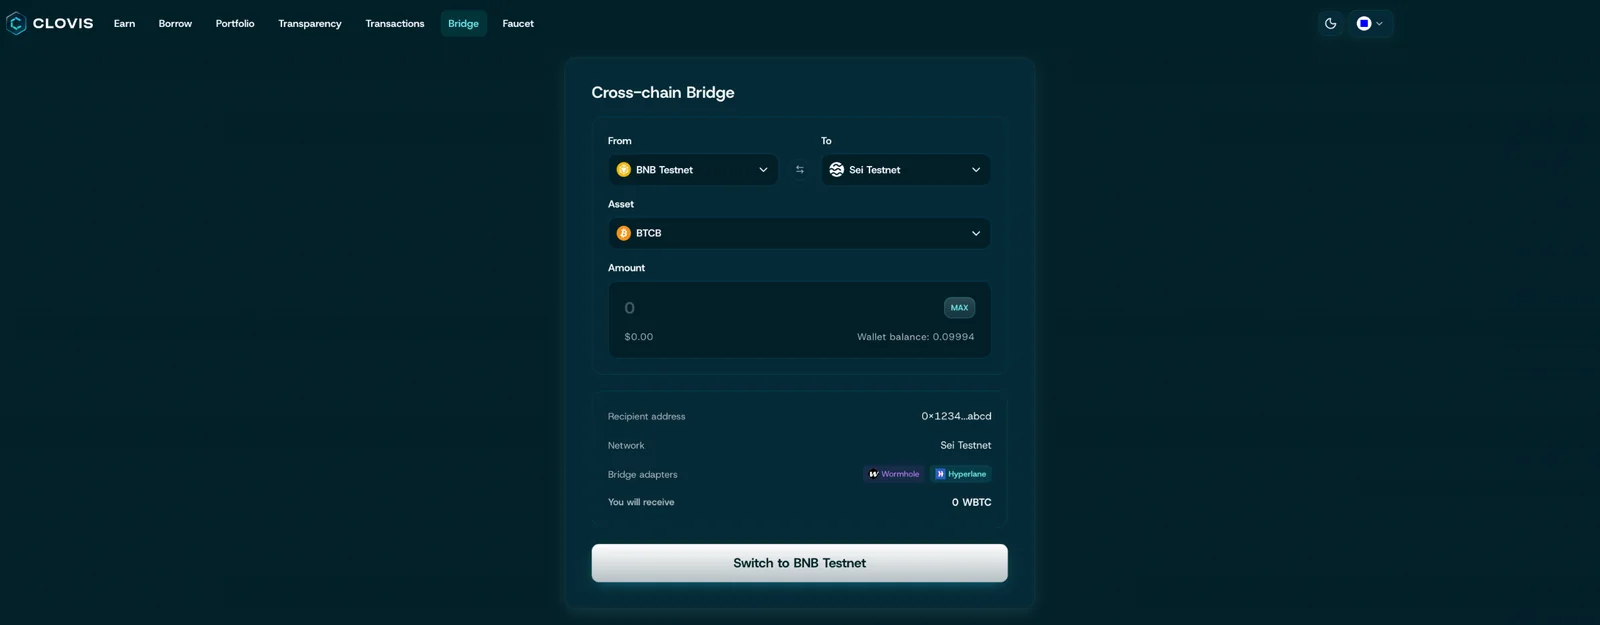
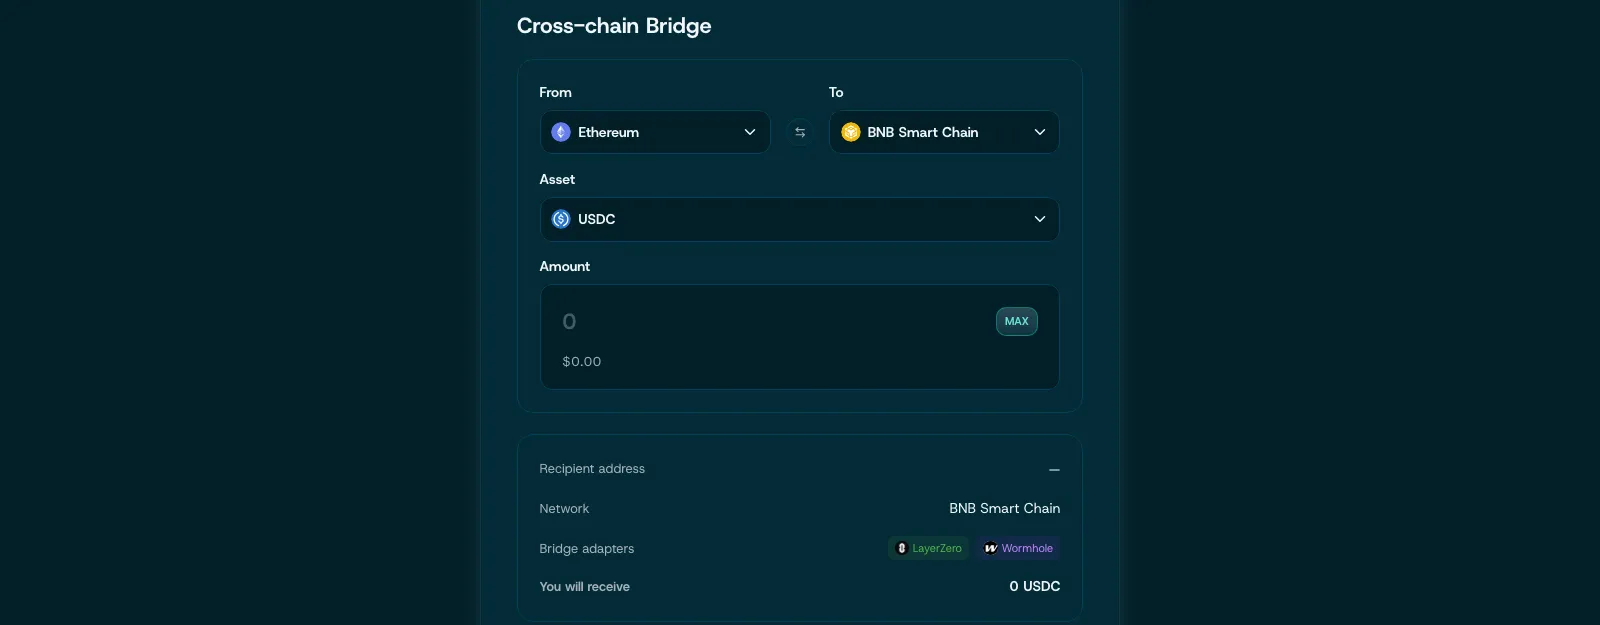
feat: update Clovis to mainnet
Clovis is live at app.clovis.network with a Base settlement chain.
Copy is kept general so it does not date: no vault list, strategy
names, chain count or launch status beyond mainnet. Fresh mainnet
screenshots replace the testnet captures.

diff --git a/src/lib/case-studies/clovis.ts b/src/lib/case-studies/clovis.ts
@@ -6,17 +6,17 @@ export const clovis: CaseStudy = {
   title: "Deposit once, earn everywhere with Clovis",
   gradientWord: "Clovis",
   intro:
-    "Clovis is a cross-chain DeFi yield hub built by Yei Finance, on the premise of \"deposit once, earn everywhere\": a single deposit is meant to draw yield from more than one chain at a time instead of sitting idle on the one it happens to live on. I helped build the platform from the ground up — the curated earn vaults, the borrow-against-your-position markets, the transparency layer that shows where the money actually goes, and the hub-and-spoke architecture underneath. It's now live on testnet!",
+    "Clovis is a cross-chain DeFi yield hub built on the premise of \"deposit once, earn everywhere\": a single deposit is meant to draw yield from more than one chain at a time instead of sitting idle on the one it happens to live on. I helped build the platform from the ground up — the curated earn vaults, the borrow-against-your-position markets, the transparency layer that shows where the money actually goes, and the hub-and-spoke architecture underneath. It was proven on testnet first and is now live on mainnet.",
   role: "Full-stack Engineer",
   stack: ["React", "TypeScript", "Solidity", "Morpho", "Euler"],
   stats: [
     { value: "Earn + borrow", label: "one loop — collateral keeps earning" },
-    { value: "Morpho + Euler", label: "single- and multi-collateral markets" },
-    { value: "Base Sepolia", label: "hub chain the vaults settle to" },
+    { value: "Morpho Blue + Euler", label: "single- and multi-collateral markets" },
+    { value: "Base", label: "settlement chain for the vaults" },
     { value: "Hub + spoke", label: "cross-chain accounting architecture" },
   ],
   links: {
-    live: "https://testnet.clovis.network",
+    live: "https://app.clovis.network",
   },
   beats: [
     {
@@ -24,7 +24,7 @@ export const clovis: CaseStudy = {
       heading: "One deposit, yield from more than one chain",
       body: [
         "The Earn page is where the \"deposit once, earn everywhere\" idea becomes a screen. It lists a curated vault for each supported asset — every vault run by a curator — with the chains it reaches, its TVL and its deposit APY sitting on the same row as the deposit action. Above the table, the page rolls up total deposited and total yield generated across the whole platform, and once a wallet is connected the same header also shows that user's own deposit and total earned.",
-        "The point of the design is that a depositor never has to think in chains. They pick an asset, deposit once, and the vault handles spreading that capital to where it earns. Inside a position the balance splits two ways: a flexible portion that stays withdrawable at the base rate, and locked portions that trade liquidity for a boosted yield over a fixed term, with auto-renewal, relocking and early unlock all surfaced in the portfolio view.",
+        "The point of the design is that a depositor never has to think in chains. They pick an asset, deposit once, and the vault handles spreading that capital across lending protocols on the chains where it earns best, with the returns aggregated back to depositors. Inside a position the balance splits two ways: a flexible portion that stays withdrawable at the base rate, and locked portions that trade liquidity for a boosted yield over a fixed term, with auto-renewal, relocking and early unlock all surfaced in the portfolio view.",
       ],
       media: [
         {
@@ -40,7 +40,7 @@ export const clovis: CaseStudy = {
       heading: "Borrow against your earn position without giving up the yield",
       body: [
         "The borrow flow answers the question every yield product eventually runs into: how do I get liquidity out of a position without unwinding it and losing the yield it's earning? Clovis lets a user borrow against an earn position while it keeps compounding — the vault receipt token itself is the collateral, so the deposit stays productive instead of being pulled out to free up cash.",
-        "The markets come in two shapes. Single-collateral markets, built on Morpho, pair one collateral asset with one borrow asset. Multi-collateral markets, built on Euler, let a mix of vault tokens back a single debt. Every row carries its available liquidity, borrow rate, LLTV and utilization, and the borrow panel keeps the health factor beside the amount along with a destination chain selector — plus the reminder that collateral in one market only ever backs that market's debt.",
+        "The markets come in two shapes. Single-collateral markets, built on Morpho Blue, pair one collateral asset with one borrow asset. Multi-collateral markets, built on Euler, let a mix of vault tokens back a single debt. Every row carries its available liquidity, borrow rate, LLTV and utilization, and the borrow panel keeps the health factor beside the amount along with a destination chain selector — plus the reminder that collateral in one market only ever backs that market's debt.",
       ],
       media: [
         {
@@ -55,14 +55,14 @@ export const clovis: CaseStudy = {
       eyebrow: "Transparency",
       heading: "Show the allocation, don't just claim the yield",
       body: [
-        "A yield product asks for a lot of trust, so Clovis puts its mechanics on a page of its own. Transparency gives every vault a tab: who curates it, which chain it settles on, its TVL and deposit APY, and a month of history charted with the locked and flexible portions drawn as separate series. A short explainer states plainly what the single headline APY is actually made of — the underlying lending rate, plus a share of protocol rewards.",
-        "Below that, the allocation is shown rather than described. A donut breaks the vault down by chain and notes that those weights rebalance automatically as rates move, and a collateral exposure table lists each position the deposited asset is lent against: the protocol behind it, Morpho or Euler, the total collateral, its LTV and liquidation threshold, and how utilized it is. The vault's contract address sits on the same page for anyone who wants to verify the claim on-chain.",
+        "A yield product asks for a lot of trust, so Clovis puts its mechanics on a page of its own. Transparency gives every vault a tab: who curates it, which chain it settles on, its TVL and deposit APY, and its recent TVL and APY history charted with the locked and flexible portions drawn as separate series. A short explainer states plainly what the single headline APY is actually made of — the underlying lending rate, plus a share of protocol rewards.",
+        "Below that, the allocation is shown rather than described. A donut breaks the vault down by chain and notes that those weights rebalance automatically as rates move, and a collateral exposure table lists each position the deposited asset is lent against: the protocol behind it, Morpho or Euler, the total collateral, its LTV and liquidation threshold, and how utilized it is. An active-strategies list names each lending protocol the vault is split across, with its chain and share of the allocation, and the vault's contract address sits on the same page for anyone who wants to verify the claim on-chain.",
       ],
       media: [
         {
           type: "image",
           src: "/images/clovis/transparency.webp",
-          alt: "Clovis Transparency page for a single vault showing the curator, settlement chain, TVL and deposit APY header alongside a one-month TVL chart plotting locked and flexible balances as separate series",
+          alt: "Clovis Transparency page for a single vault showing the curator, settlement chain, TVL and deposit APY header alongside a recent TVL chart plotting locked and flexible balances as separate series",
           aspect: "auto",
         },
         {
@@ -77,29 +77,29 @@ export const clovis: CaseStudy = {
       eyebrow: "Architecture",
       heading: "A hub-and-spoke design, built from the ground up",
       body: [
-        "Underneath the product is the part that makes cross-chain yield actually work: a hub-and-spoke architecture. A hub — deployed here on Base Sepolia — owns the accounting and keeps one consistent view of who's owed what, while spoke deployments on each supported chain handle custody and lending locally. That separation is what lets a single deposit be tracked coherently while its capital sits across a growing set of networks, and lets the vault rebalance between them automatically as yields move.",
-        "Assets travel over pluggable bridge adapters — Wormhole and Hyperlane — which the in-app bridge exposes directly, so moving an asset between supported chains is a first-class action rather than a detour. We built this from the ground up: the vault and market contracts, the frontend that reads and drives them, and the hub-to-spoke coordination that keeps balances in sync. Running on testnet first is the deliberate part — the mechanism gets proven before real capital is trusted to it.",
+        "Underneath the product is the part that makes cross-chain yield actually work: a hub-and-spoke architecture. A hub — deployed on Base — owns the accounting and keeps one consistent view of who's owed what, while spoke deployments on each supported chain handle custody and lending locally. That separation is what lets a single deposit be tracked coherently while its capital sits across a growing set of networks, and lets the vault rebalance between them automatically as yields move.",
+        "Assets travel over pluggable bridge adapters, which the in-app bridge exposes directly, so moving an asset between supported chains is a first-class action rather than a detour. We built this from the ground up: the vault and market contracts, the frontend that reads and drives them, and the hub-to-spoke coordination that keeps balances in sync. Running on testnet first was the deliberate part: the mechanism was proven before real capital was trusted to it, and the same loop now runs on mainnet.",
       ],
       media: [
         {
           type: "image",
           src: "/images/clovis/bridge.webp",
-          alt: "Clovis cross-chain bridge form with From and To chain selectors, an asset and amount field, a recipient address, and a choice of Wormhole or Hyperlane bridge adapters with the amount the user will receive",
+          alt: "Clovis cross-chain bridge form with From and To chain selectors, an asset and amount field, a recipient address, and a choice of LayerZero or Wormhole bridge adapters with the amount the user will receive",
           aspect: "auto",
         },
       ],
     },
   ],
   outcome: {
-    heading: "A cross-chain yield loop, proven on testnet",
+    heading: "A cross-chain yield loop, live on mainnet",
     body: [
-      "Clovis takes a single deposit, puts it to work across chains, and then lets a user borrow against that position — through Morpho-based single-collateral markets or Euler-based multi-collateral ones — without giving up the yield underneath. A transparency layer shows exactly where the capital sits and what the APY is made of, and a hub-and-spoke architecture with a Base Sepolia hub keeps the accounting coherent across every supported chain. It's live on testnet, where the whole loop is demonstrably working before it's trusted with mainnet capital.",
+      "Clovis takes a single deposit, puts it to work across chains, and then lets a user borrow against that position — through Morpho Blue single-collateral markets or Euler multi-collateral ones — without giving up the yield underneath. A transparency layer shows exactly where the capital sits and what the APY is made of, and a hub-and-spoke architecture with a Base hub keeps the accounting coherent across every supported chain. The whole loop was proven on testnet first and is now live on mainnet.",
     ],
   },
   related: ["yei-finance", "lavarage-dapp", "lenders-portal"],
   seo: {
     title: "Clovis Case Study | Trisha Teh",
     description:
-      "A case study of Clovis, a cross-chain DeFi yield hub by Yei Finance with curated earn vaults, Morpho- and Euler-based borrow markets, and a hub-and-spoke architecture, built from the ground up and live on testnet.",
+      "A case study of Clovis, a cross-chain DeFi yield hub with curated multi-chain earn vaults, Morpho Blue and Euler borrow markets, and a hub-and-spoke architecture with a Base hub, built from the ground up and live on mainnet.",
   },
 };

diff --git a/src/lib/projects.ts b/src/lib/projects.ts
@@ -360,22 +360,22 @@ export const projects: Project[] = [
     title: "Clovis",
     category: "dapp",
     summary:
-      "A cross-chain DeFi yield hub by Yei Finance — deposit once, earn everywhere — with curated multi-chain vaults and borrowing that keeps the position earning, live on testnet.",
+      "A cross-chain DeFi yield hub — deposit once, earn everywhere — with curated multi-chain vaults and borrowing that keeps the position earning, live on mainnet.",
     description:
-      "Curated multi-chain earn vaults that rebalance automatically across chains, plus borrow markets in two shapes — single-collateral on Morpho and multi-collateral on Euler — where the vault position itself is the collateral. A transparency page shows where the capital is allocated, and a hub-and-spoke architecture settles the accounting on a Base Sepolia hub.",
+      "Curated multi-chain earn vaults that rebalance automatically across chains, plus borrow markets in two shapes — single-collateral on Morpho Blue and multi-collateral on Euler — where the vault position itself is the collateral. A transparency page shows where the capital is allocated and which lending strategies it runs through, and a hub-and-spoke architecture settles the accounting on a Base hub.",
     stack: ["React", "TypeScript", "Solidity", "Morpho", "Euler"],
     heroMedia: {
       type: "image",
       src: "/images/projects/clovis.webp",
     },
     links: {
-      demo: "https://testnet.clovis.network",
+      demo: "https://app.clovis.network",
       caseStudy: "/projects/clovis",
     },
     featured: true,
     impact: [
       "Built the cross-chain earn vaults and borrow markets from the ground up",
-      "Live on testnet across multiple chains with a hub-and-spoke settlement design",
+      "Live on mainnet across multiple chains with a hub-and-spoke settlement design",
     ],
   },
   {
